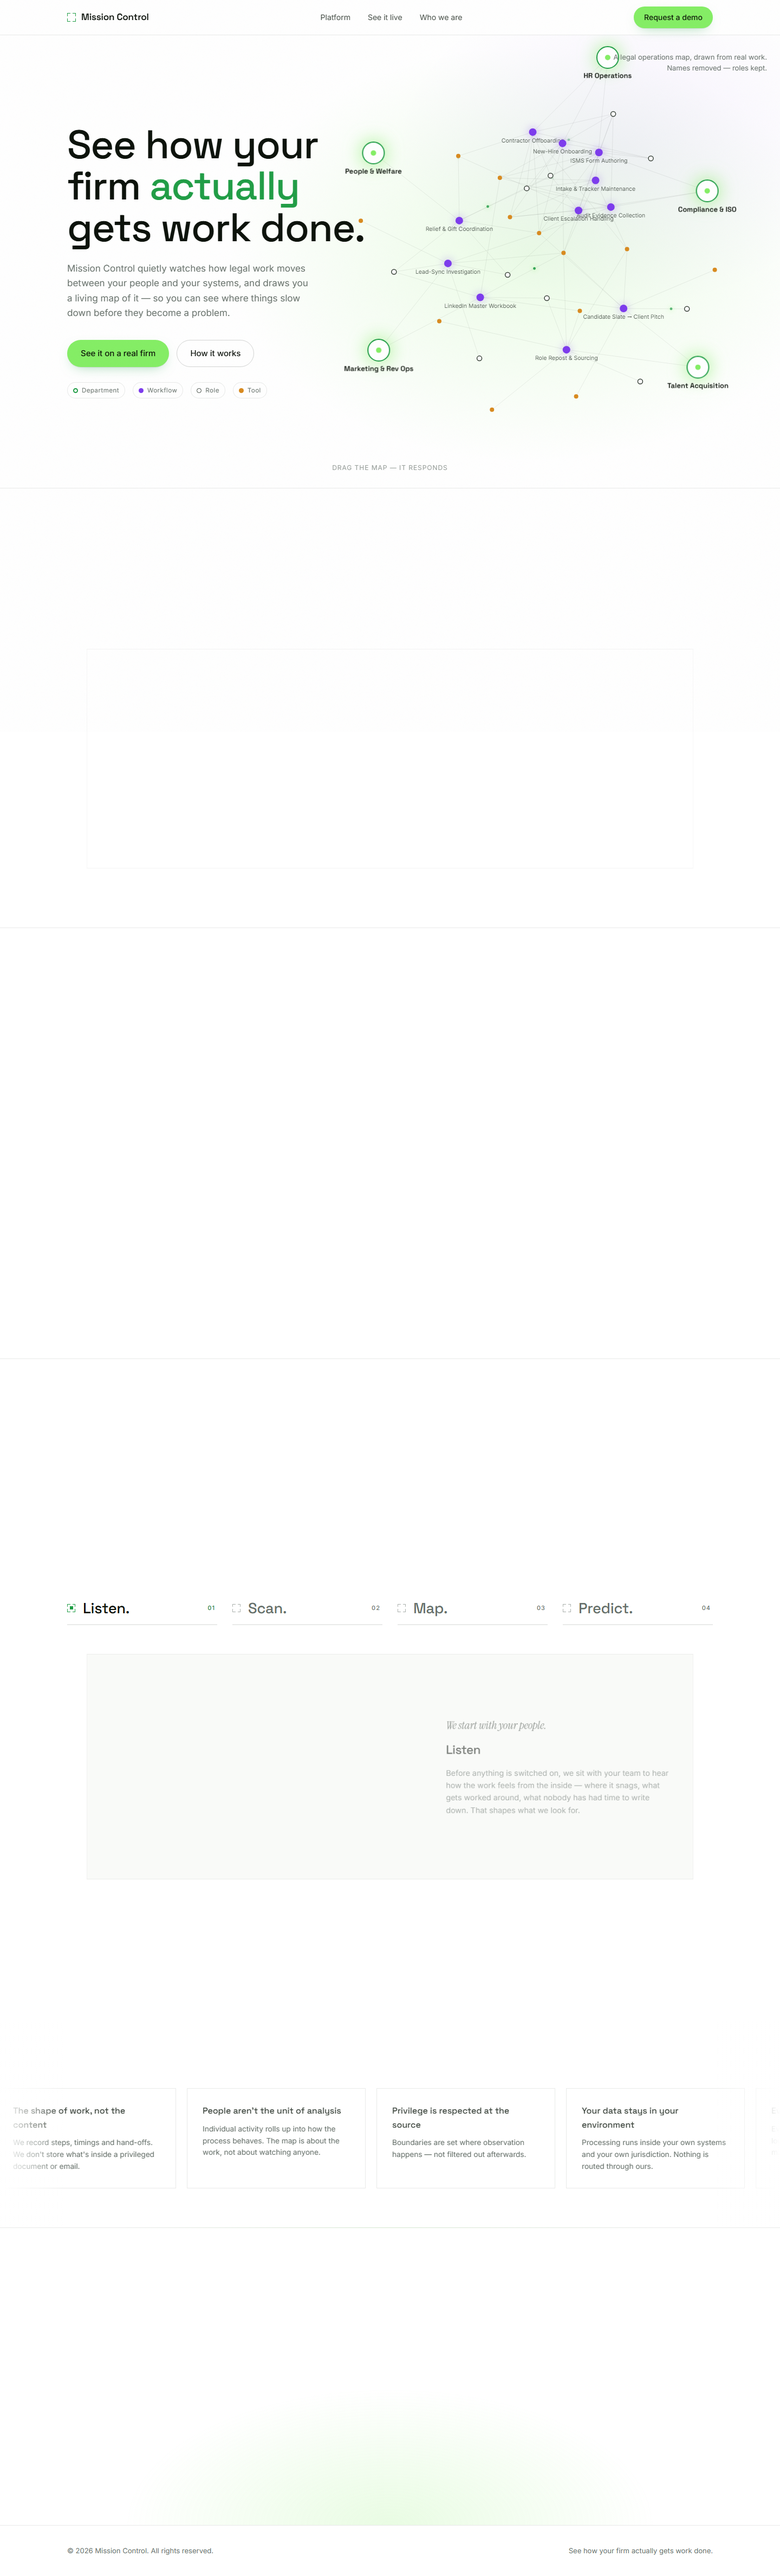
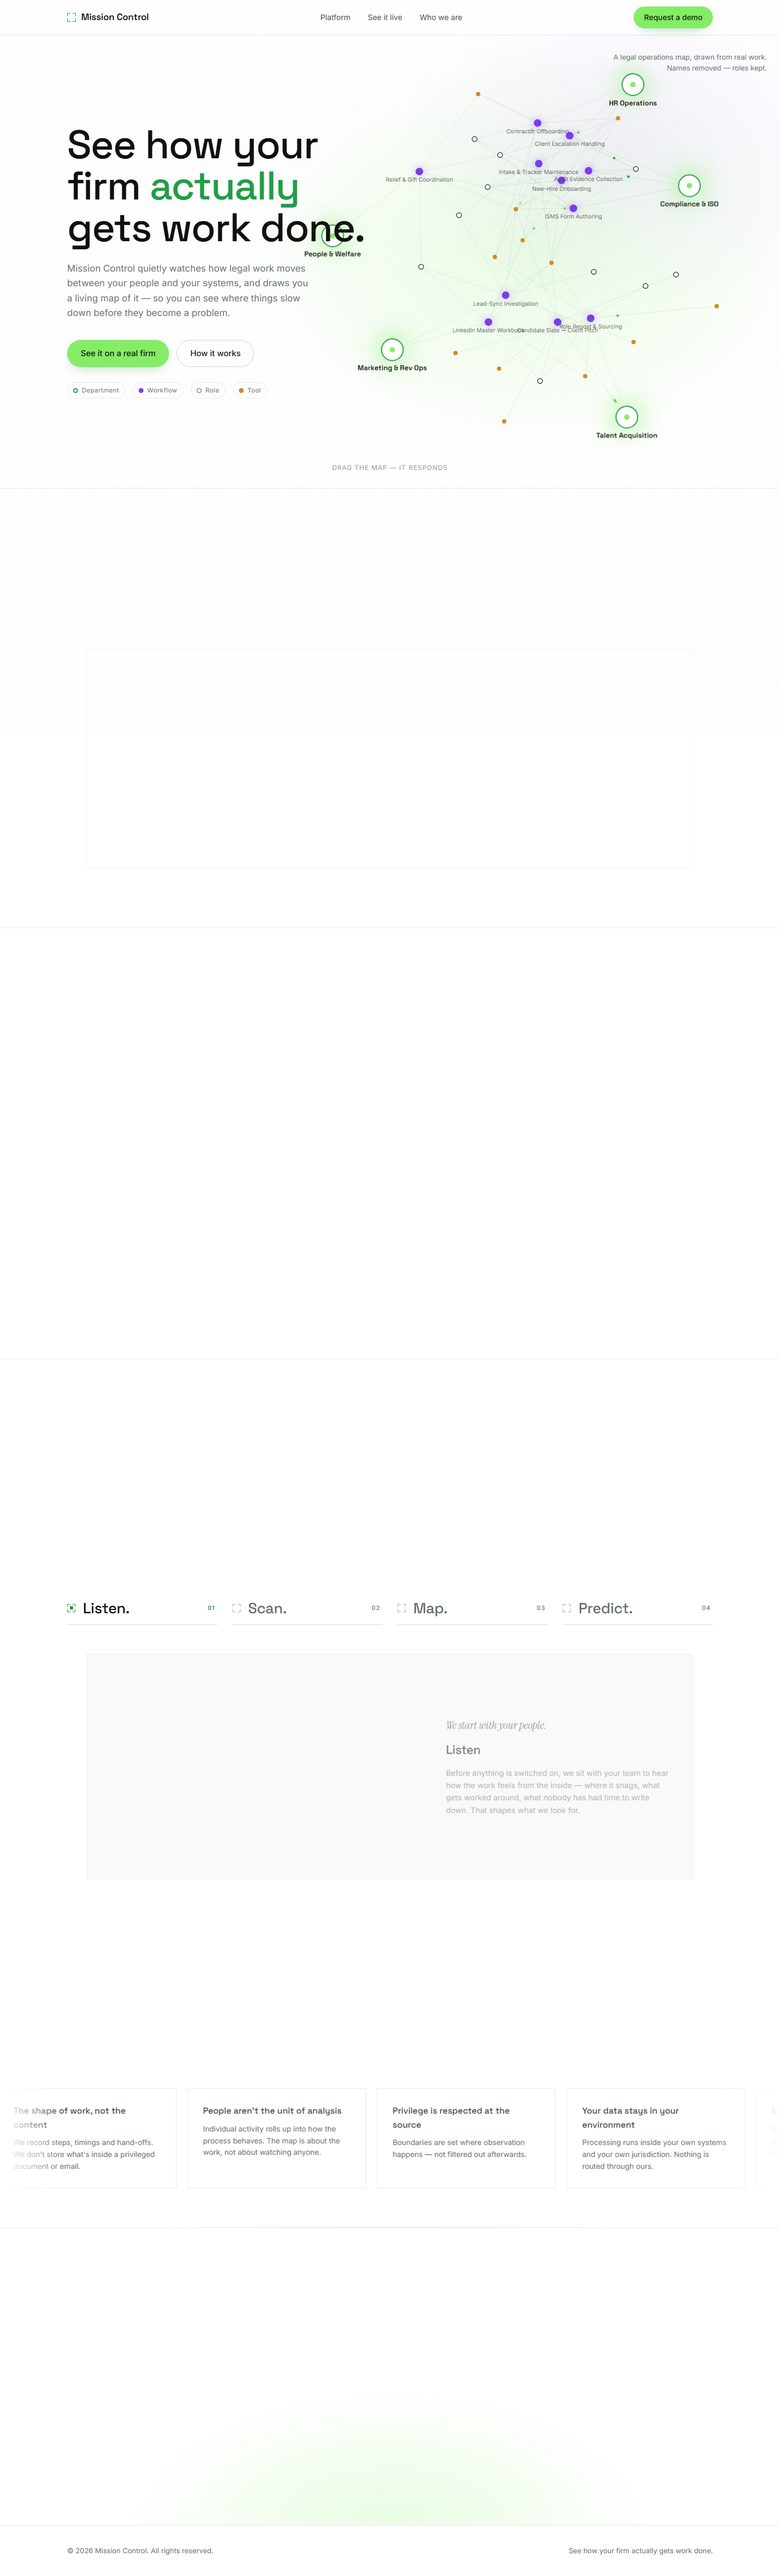
Hero map keeps clear of the nav and caption

diff --git a/src/hero-graph.js b/src/hero-graph.js
@@ -109,7 +109,7 @@ export function initHeroGraph(svg, { reduced = false, onInteractive } = {}) {
       n.vx *= 0.85; n.vy *= 0.85;
       const sp = Math.hypot(n.vx, n.vy); if (sp > 6) { n.vx *= 6 / sp; n.vy *= 6 / sp; }
       n.x += n.vx; n.y += n.vy;
-      const m = n.r + 16, top = W > 960 ? 70 : 24, bottom = W > 960 ? 40 : 24;
+      const m = n.r + 16, top = W > 960 ? 120 : 24, bottom = W > 960 ? 40 : 24; // stays below the nav + caption
       const right = W > 960 ? 96 : 0; // keep the right-most department label inside the frame
       n.x = Math.max(m, Math.min(W - m - right, n.x)); n.y = Math.max(m + top, Math.min(H - m - bottom, n.y));
     });
